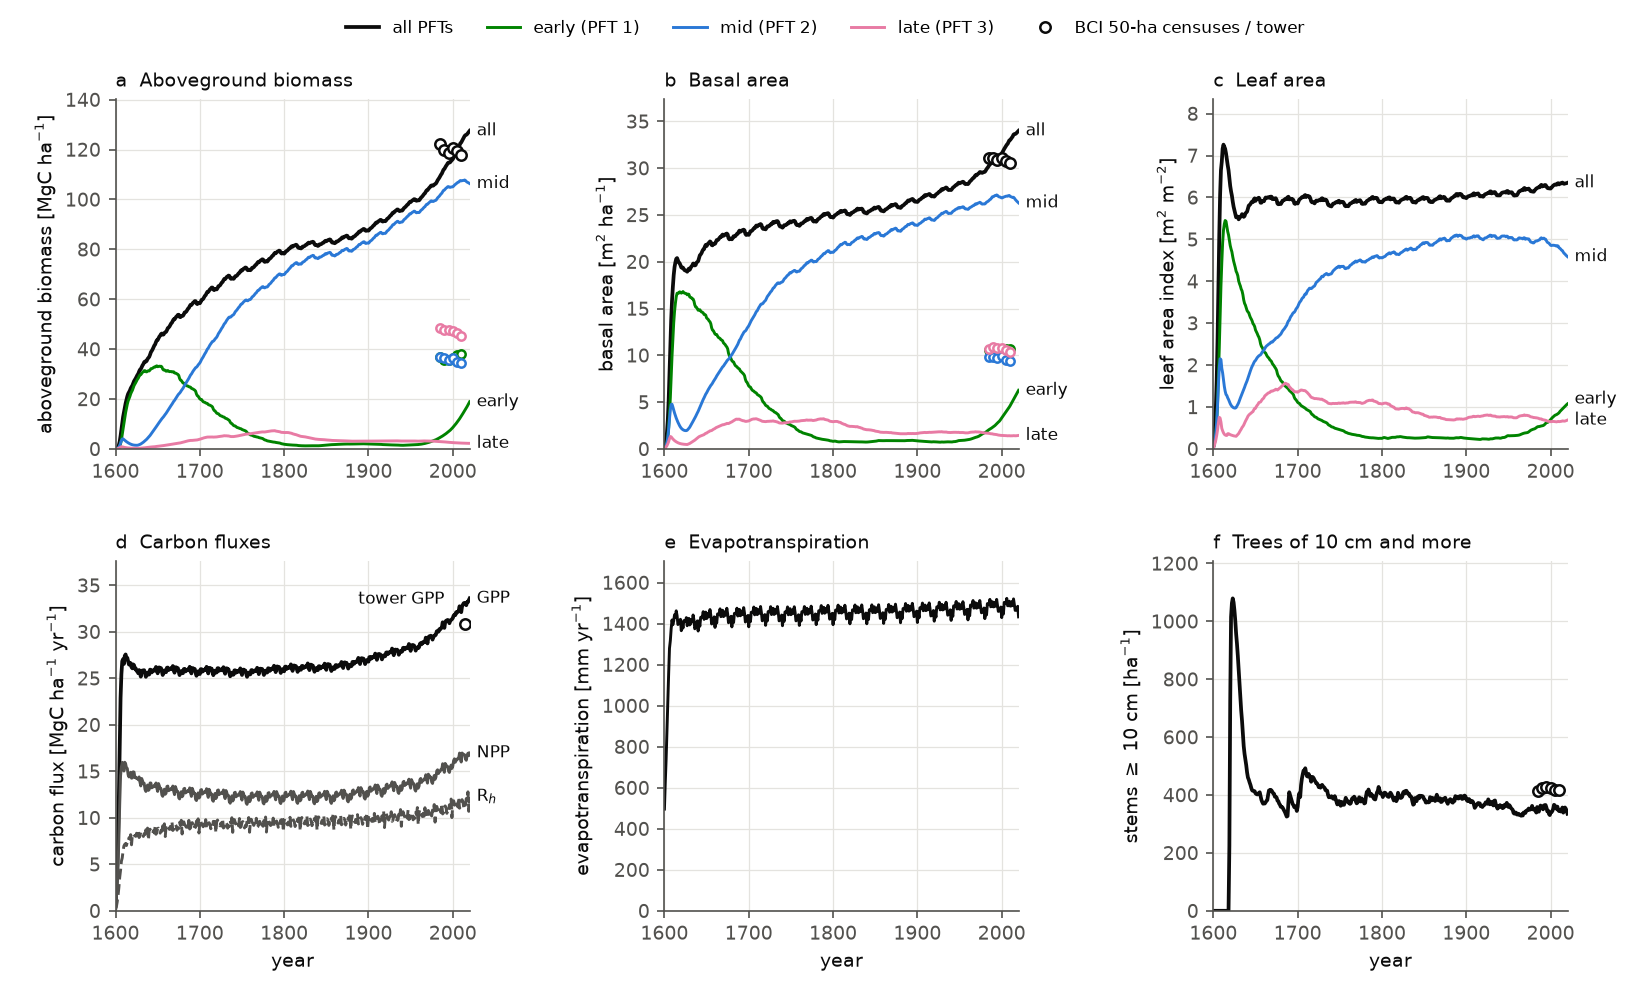
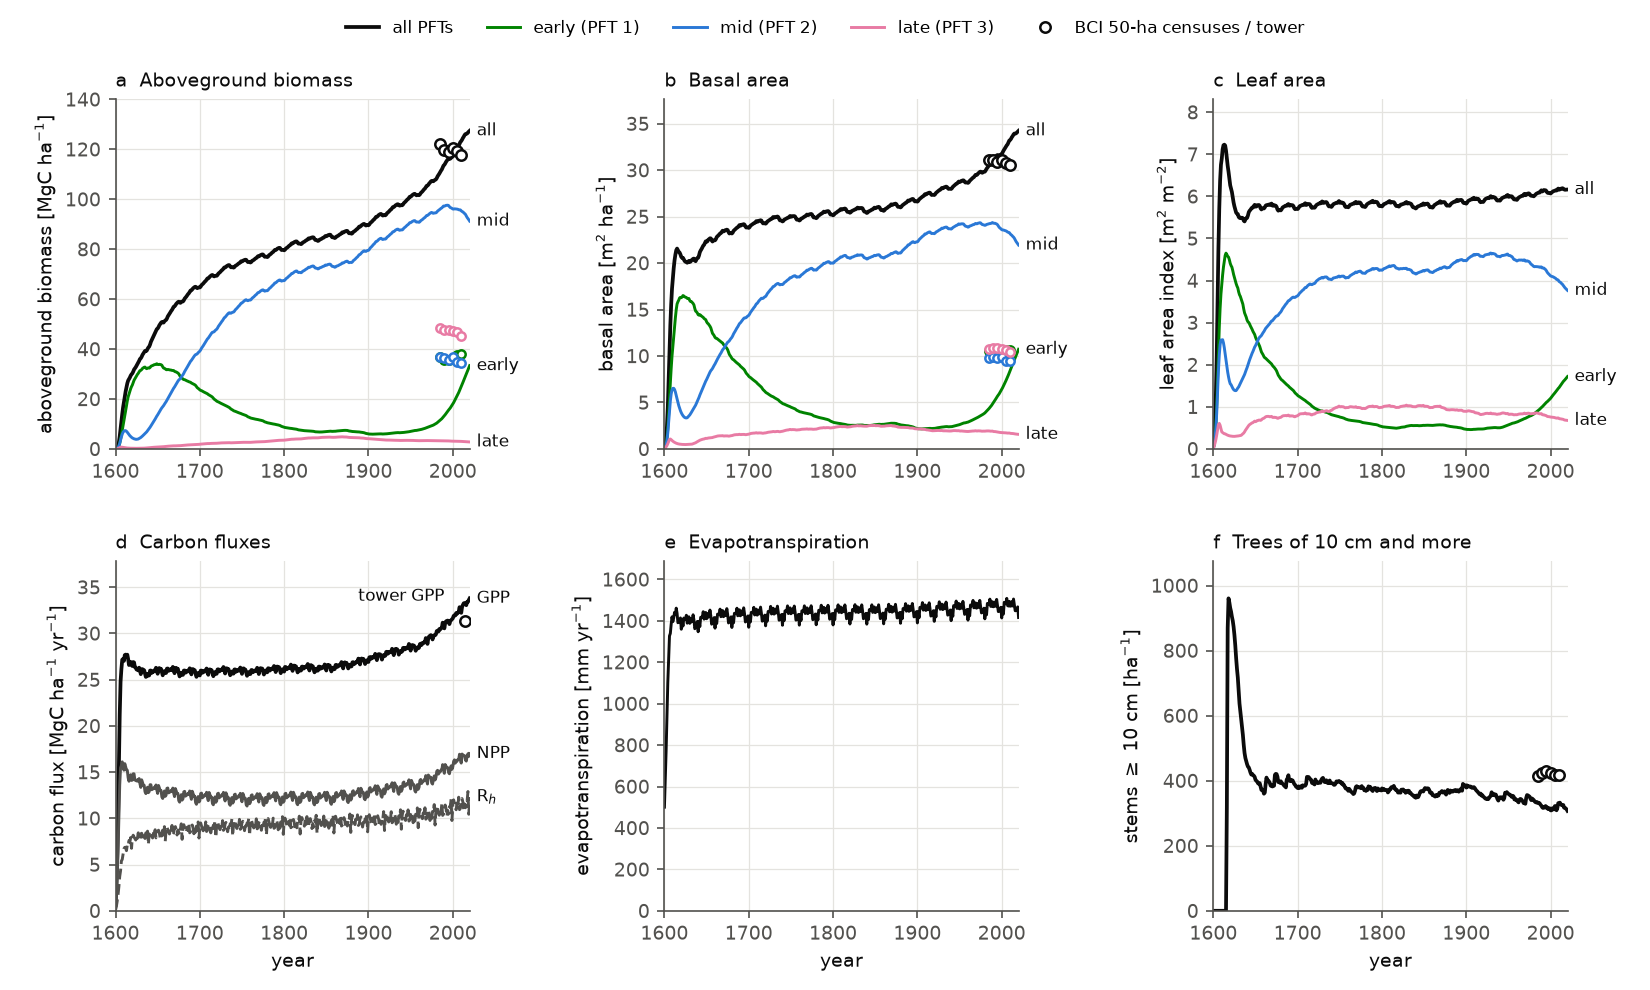
example05: BCI rerun on example 04's 2 m column and refit
The BCI run takes example 04's new calibration (Vcmax25 32.3, g1 2.82, g0 0.0003,
leaf angle 54.9, z0m_ratio 0.053; the light-plasticity slopes recomputed from
Vcmax25: -0.1404 / -0.2095) and its 2 m soil column. 2010: AGB 123.3 MgC/ha
(census 117.9), basal area 33.2 (30.5), GPP 32.2 (tower, corrected with kappa
0.734: 31.3); 2020: AGB 127.4, early 33 / mid 91 / late 3. The census check
(2005-2010): growth below 20 cm 0.65-1.7 x the census (was 0.7-1.35), loss
1.86 -> 2.35; the carbon budget unchanged within 0.2 MgC/ha/yr. 3.3 h on 20
threads (was 2 h).

diff --git a/examples/example05_forest_regeneration/plot_regeneration.py b/examples/example05_forest_regeneration/plot_regeneration.py
@@ -25,7 +25,7 @@ CENSUS = os.path.join(os.path.dirname(HERE), "example03_demography", "census_sta
 PFT_COLOR = {1: "#008300", 2: "#2a78d6", 3: "#e87ba4"}   # the ED colours, as in example 03
 PFT_NAME = {1: "early", 2: "mid", 3: "late"}
 INK, MUTED, GRID = "#0b0b0b", "#52514e", "#e4e3df"
-TOWER_GPP = 30.8          # [MgC/ha/yr] the BCI tower 2012-2017, corrected for its low bias (example 04)
+TOWER_GPP = 31.3          # [MgC/ha/yr] the BCI tower 2012-2017, corrected for its low bias (example 04)
 plt.rcParams.update({"font.size": 9, "axes.edgecolor": MUTED, "axes.labelcolor": INK,
                      "xtick.color": MUTED, "ytick.color": MUTED, "axes.spines.top": False,
                      "axes.spines.right": False, "axes.grid": True, "grid.color": GRID,
